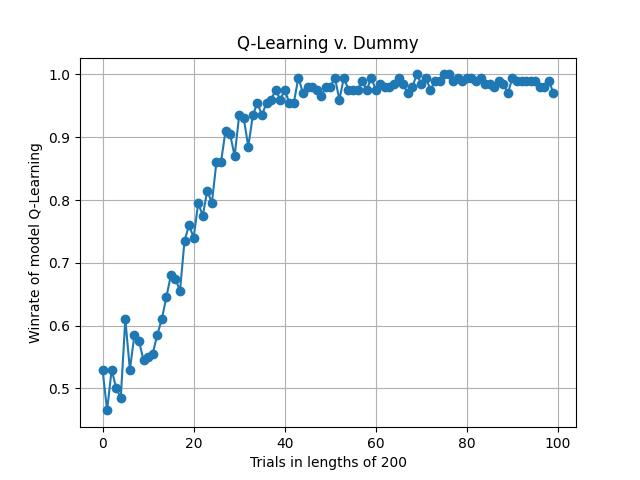
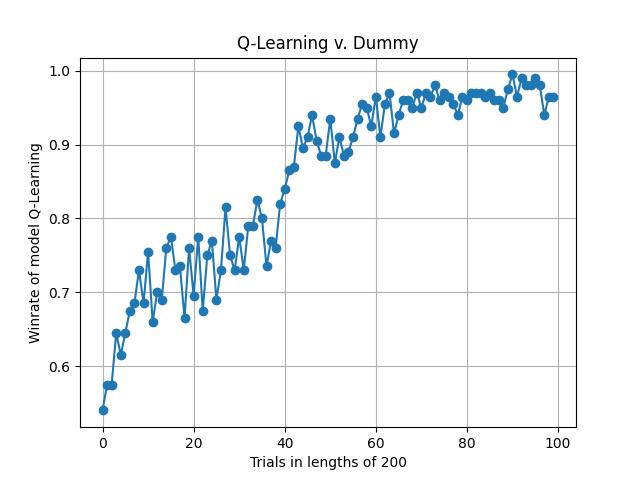
Added a database to track games, added multiple experiments, with graphs showing winwrate overtime of those experiments

diff --git a/One_Card_HUL_Poker/Experiment.py b/One_Card_HUL_Poker/Experiment.py
@@ -21,16 +21,16 @@ def dummy_action():
 
 
 
-def model_v_simple_m(simple, experiment_id, **kwargs):
+def model_v_simple_m(simple, experiment_id, m_id, **kwargs):
 
 
     db = DatabaseLog(experiment_id)
     q_model = Model([0, 1, 2], kwargs["gamma"], kwargs["alpha"], kwargs["epsilon"],
-                    kwargs["epsilon_dec"], kwargs["alpha_dec"])
+                    kwargs["epsilon_dec"], kwargs["alpha_dec"], Q_learn = kwargs["Q-learn"])
     simple_id = simple[1]
     simple_function = simple[0]
     tot_chips = 20
-    players = [Player(simple_id), Player(0)]
+    players = [Player(simple_id), Player(m_id)]
     game = Environment(players, db = db)
     t = 0
 
@@ -44,7 +44,7 @@ def model_v_simple_m(simple, experiment_id, **kwargs):
                 action = process_action(a, game, turn)
 
             else:
-                state = process_state(game, tot_chips, 0)
+                state = process_state(game, tot_chips, m_id)
                 if val:
                     get_reward(game, q_model, t, state)
                     t += 1
@@ -57,13 +57,13 @@ def model_v_simple_m(simple, experiment_id, **kwargs):
             ind = 0 if turn == players[0].id else 1
             db.log_action(turn, game.players[ind].chips, game.players[ind].cards, action)
             turn = game.action_handler(turn, action)
-            state = process_state(game, tot_chips, 0)
+            state = process_state(game, tot_chips, m_id)
             if val:
                 get_reward(game, q_model, t, state)
                 t += 1
 
         if turn == -1:
-            db.log_game(0)
+            db.log_game(m_id)
         else:
             db.log_game(simple_id)
 
@@ -115,17 +115,21 @@ def dummy_v_simple_m(dummy, simple, trial_time, experiment_id):
 if __name__ == '__main__':
     """
     Experiment ID's:
-    Model v Dummy: 0
+    SARSA v Dummy: 0
     Call v Dummy: 1
     Raise v Dummy: 2
-    Model v Call: 3
-    Model v Raise: 4
+    SARSA v Call: 3
+    SARSA v Raise: 4
+    Q-Learn v Dummy: 5
+    Q-Learn v Call: 6
+    Q-Learn v Raise: 7
     
     Model ID's:
-    Q-learn: 0 
+    SARSA: 0 
     Dummy: 1
     Call: 2
     Raise: 3
+    Q-Learn: 4
     """
 
     #[model_function(), model_id]
@@ -140,197 +144,32 @@ if __name__ == '__main__':
         'alpha': .25,
         'epsilon': .9,
         'epsilon_dec': 255000000000,
-        'alpha_dec': 655000000000
-
+        'alpha_dec': 655000000000,
+        'Q-learn': False
     }
-    DatabaseLog(-1).wipe()
+    #DatabaseLog(-1).wipe()
+
     #Q-model v all models
-    model_v_simple_m(dummy, 0, **model_params)
+    #model_v_simple_m(dummy, 0, 0, **model_params)
 
 
-    model_v_simple_m(call, 3, **model_params)
+    #model_v_simple_m(call, 3, 0, **model_params)
 
 
-    model_v_simple_m(Raise, 4, **model_params)
+    #model_v_simple_m(Raise, 4, 0, **model_params)
 
+    model_params['Q-learn'] = True
+    model_v_simple_m(dummy, 5, 4, **model_params)
+
+    model_v_simple_m(call, 6, 4, **model_params)
+
+    model_v_simple_m(Raise, 7, 4, **model_params)
 
 
     #Simple models v dummy
 
-    dummy_v_simple_m(dummy, call, model_params['T'], 1)
+    #dummy_v_simple_m(dummy, call, model_params['T'], 1)
 
-    dummy_v_simple_m(dummy, Raise, model_params['T'], 2)
-
-
+    #dummy_v_simple_m(dummy, Raise, model_params['T'], 2)
 
 
-"""
-model_v_ev_winrate = []
-
-for i in range(20000):
-
-    val = False
-    turn = game.start_game(tot_chips)
-    while turn != -1 and turn != -2:
-        if turn == 0:
-            a = dummy_action()
-            action = process_action(a, game, turn)
-
-
-        else:
-            state = process_state(game, tot_chips)
-
-
-            expected_value_fold = -game.players[1].chips_staked
-            p_w = (599/600) * (state[0]/11) * (24/25)
-            p_t = (1797/43125)
-            p_l = 1 - (p_w + p_t)
-            expected_value_call = ((game.pot) * p_w) + (((game.pot)/2) * p_t) - ((game.call_amount + game.players[1].chips_staked)* p_l)
-            ev_raise = expected_value_raise(game.raise_amount, game.call_amount, p_w, p_t, game.pot, expected_value_fold)
-            max_expected_action = max({1: expected_value_call, 2: ev_raise, 0 :expected_value_fold})
-
-            action = process_action(max_expected_action, game, turn)
-
-
-
-
-        turn = game.action_handler(turn, action)
-        if game.reward.empty():
-            pass
-        elif not game.reward.empty():
-            reward = game.reward.get()
-            print(f"Reward: {reward}")
-            Q_model.policy_update(reward, state, t)
-            t += 1
-
-    if turn == -1:
-        model_v_ev_winrate.append(1)
-    else:
-        model_v_ev_winrate.append(0)
-
-    game.start_over(20)
-
-
-
-print(f"Dummy v expected value winrate: {np.average(model_v_ev_winrate)}")
-
-tot_chips = 20
-Q_model = Model([0, 1, 2], .99, .4, .8, 999999990)
-model_v_call = []
-players = [Player(0), Player(1)]
-game = Environment(players)
-t = 0
-
-for i in range(20000):
-
-    val = False
-    turn = game.start_game(tot_chips)
-    while turn != -1 and turn != -2:
-        if turn == 0:
-            a = 1
-            action = process_action(a, game, turn)
-
-
-        else:
-            state = process_state(game, tot_chips)
-            #print(state)
-            if val and game.reward.empty():
-                reward = 0
-                Q_model.policy_update(0, state, t)
-                t += 1
-            elif val and not game.reward.empty():
-                reward = game.reward.get()
-                Q_model.policy_update(reward, state, t)
-                t += 1
-
-            a = Q_model.get_action(state)
-            action = process_action(a, game, turn)
-
-            val = True
-
-
-        turn = game.action_handler(turn, action)
-        if game.reward.empty():
-            pass
-        elif not game.reward.empty():
-            reward = game.reward.get()
-            print(f"Reward: {reward}")
-            Q_model.policy_update(reward, state, t)
-            t += 1
-
-    if turn == -1:
-        model_v_call.append(1)
-    else:
-        model_v_call.append(0)
-
-
-    game.start_over(20)
-#print(model_v_call)
-print(f"Model v Call only strategy last 50 games: {np.average(model_v_call[len(model_v_call) -50:])}")
-
-
-
-
-tot_chips = 20
-Q_model = Model([0, 1, 2], .97, .25, .95, 85000000000, 1500000000000)
-model_v_raise = []
-players = [Player(0), Player(1)]
-game = Environment(players)
-t = 0
-
-
-for i in range(20000):
-
-    val = False
-    turn = game.start_game(tot_chips)
-    while turn != -1 and turn != -2:
-        if turn == 0:
-            a = 2
-            action = process_action(a, game, turn)
-        else:
-            state = process_state(game, tot_chips)
-            #print(state)
-            if val and game.reward.empty():
-                reward = 0
-                Q_model.policy_update(0, state, t)
-                t += 1
-            elif val and not game.reward.empty():
-                reward = game.reward.get()
-                print(f"Reward: {reward}")
-                Q_model.policy_update(reward, state, t)
-                t += 1
-
-            a = Q_model.get_action(state)
-
-            action = process_action(a, game, turn)
-
-
-            val = True
-
-
-        turn = game.action_handler(turn, action)
-
-    state = process_state(game, tot_chips)
-    if game.reward.empty():
-        pass
-    elif not game.reward.empty():
-        reward = game.reward.get()
-        print(f"Reward: {reward}")
-        Q_model.policy_update(reward, state, t)
-        t += 1
-
-    if turn == -1:
-        model_v_raise.append(1)
-    else:
-        model_v_raise.append(0)
-
-
-    game.start_over(20)
-#print(model_v_call)
-
-print(Q_model.state_actions)
-print(Q_model.epsilon, Q_model.alpha)
-print(len(model_v_raise))
-print(f"Model v Raise only strategy last 200 games: {np.average(model_v_raise[len(model_v_raise) - 200:])}")
-
-"""

diff --git a/One_Card_HUL_Poker/Model.py b/One_Card_HUL_Poker/Model.py
@@ -1,6 +1,6 @@
 import numpy as np
 class Model:
-    def __init__(self, actions, gamma, alpha, epsilon, dec_r, dec_ra):
+    def __init__(self, actions, gamma, alpha, epsilon, dec_r, dec_ra, Q_learn = False):
         self.actions = actions
         self.state_actions = np.zeros((12, 20, 2, 3))
         self.state_action_distribution = np.zeros((12, 20, 2, 3))
@@ -12,7 +12,7 @@ class Model:
         self.epsilon = [epsilon, epsilon]
         self.decay_rate_e = dec_r
         self.decay_rate_a = dec_ra
-
+        self.Q_learn = Q_learn
     def get_action(self, state):
         current_action = self.choose_action(state)
         self.action_log.append(current_action)
@@ -22,22 +22,21 @@ class Model:
     def policy_update(self, reward, next_state, t):
 
 
-        #optimal_future_action = self.get_max_value(next_state)
-        future_action = self.choose_action(next_state)
-        """
-        Q-Learning
-        self.state_actions[self.current_SA[0]][self.current_SA[1]] += (self.alpha[0] *
-                                                (reward + (self.gamma *
-                                                           self.state_actions[next_state][
-                                                               optimal_future_action]) -
-                                                 self.state_actions[self.current_SA[0]][self.current_SA[1]]))
-        """
-        self.state_actions[self.current_SA[0]][self.current_SA[1]] += (self.alpha[0] *
-                                                                       (reward + (self.gamma *
-                                                                                  self.state_actions[next_state][
-                                                                                      future_action]) -
-                                                                        self.state_actions[self.current_SA[0]][
-                                                                            self.current_SA[1]]))
+        if self.Q_learn:
+            optimal_future_action = self.get_max_value(next_state)
+            self.state_actions[self.current_SA[0]][self.current_SA[1]] += (self.alpha[0] *
+                                                    (reward + (self.gamma *
+                                                               self.state_actions[next_state][
+                                                                   optimal_future_action]) -
+                                                        self.state_actions[self.current_SA[0]][self.current_SA[1]]))
+        else:
+            future_action = self.choose_action(next_state)
+            self.state_actions[self.current_SA[0]][self.current_SA[1]] += (self.alpha[0] *
+                                                                           (reward + (self.gamma *
+                                                                                      self.state_actions[next_state][
+                                                                                          future_action]) -
+                                                                            self.state_actions[self.current_SA[0]][
+                                                                                self.current_SA[1]]))
         self.decay(t)
         #self.update_distribution(self.current_SA[0])
 

diff --git a/One_Card_HUL_Poker/Analysis.py b/One_Card_HUL_Poker/Analysis.py
@@ -3,8 +3,9 @@ import numpy as np
 import matplotlib.pyplot as plt
 import sqlite3
 
-models = {0: "Q-Learning", 1: "Dummy", 2: "Call", 3: "Raise"}
-experiments = {0: "Q-Learning v. Dummy", 1: "Dummy v. Call", 2: "Dummy v. Raise", 3: "Model v. Call", 4: "Model v. Raise"}
+models = {0: "SARSA", 1: "Dummy", 2: "Call", 3: "Raise", 4: "Q-Learning"}
+experiments = {0: "SARSA v. Dummy", 1: "Dummy v. Call", 2: "Dummy v. Raise", 3: "SARSA v. Call", 4: "SARSA v. Raise",
+               5: "Q-Learning v. Dummy", 6: "Q-Learning v. Call", 7: "Q-Learning v. Raise" }
 def winrate(experiment_id, model_id):
     conn = sqlite3.connect('../Game_Log')
     df = pd.read_sql('''
@@ -37,3 +38,6 @@ if __name__ == '__main__':
     winrate(4, 0)
     winrate(1, 2)
     winrate(2, 3)
+    winrate(5, 4)
+    winrate(6, 4)
+    winrate(7, 4)
